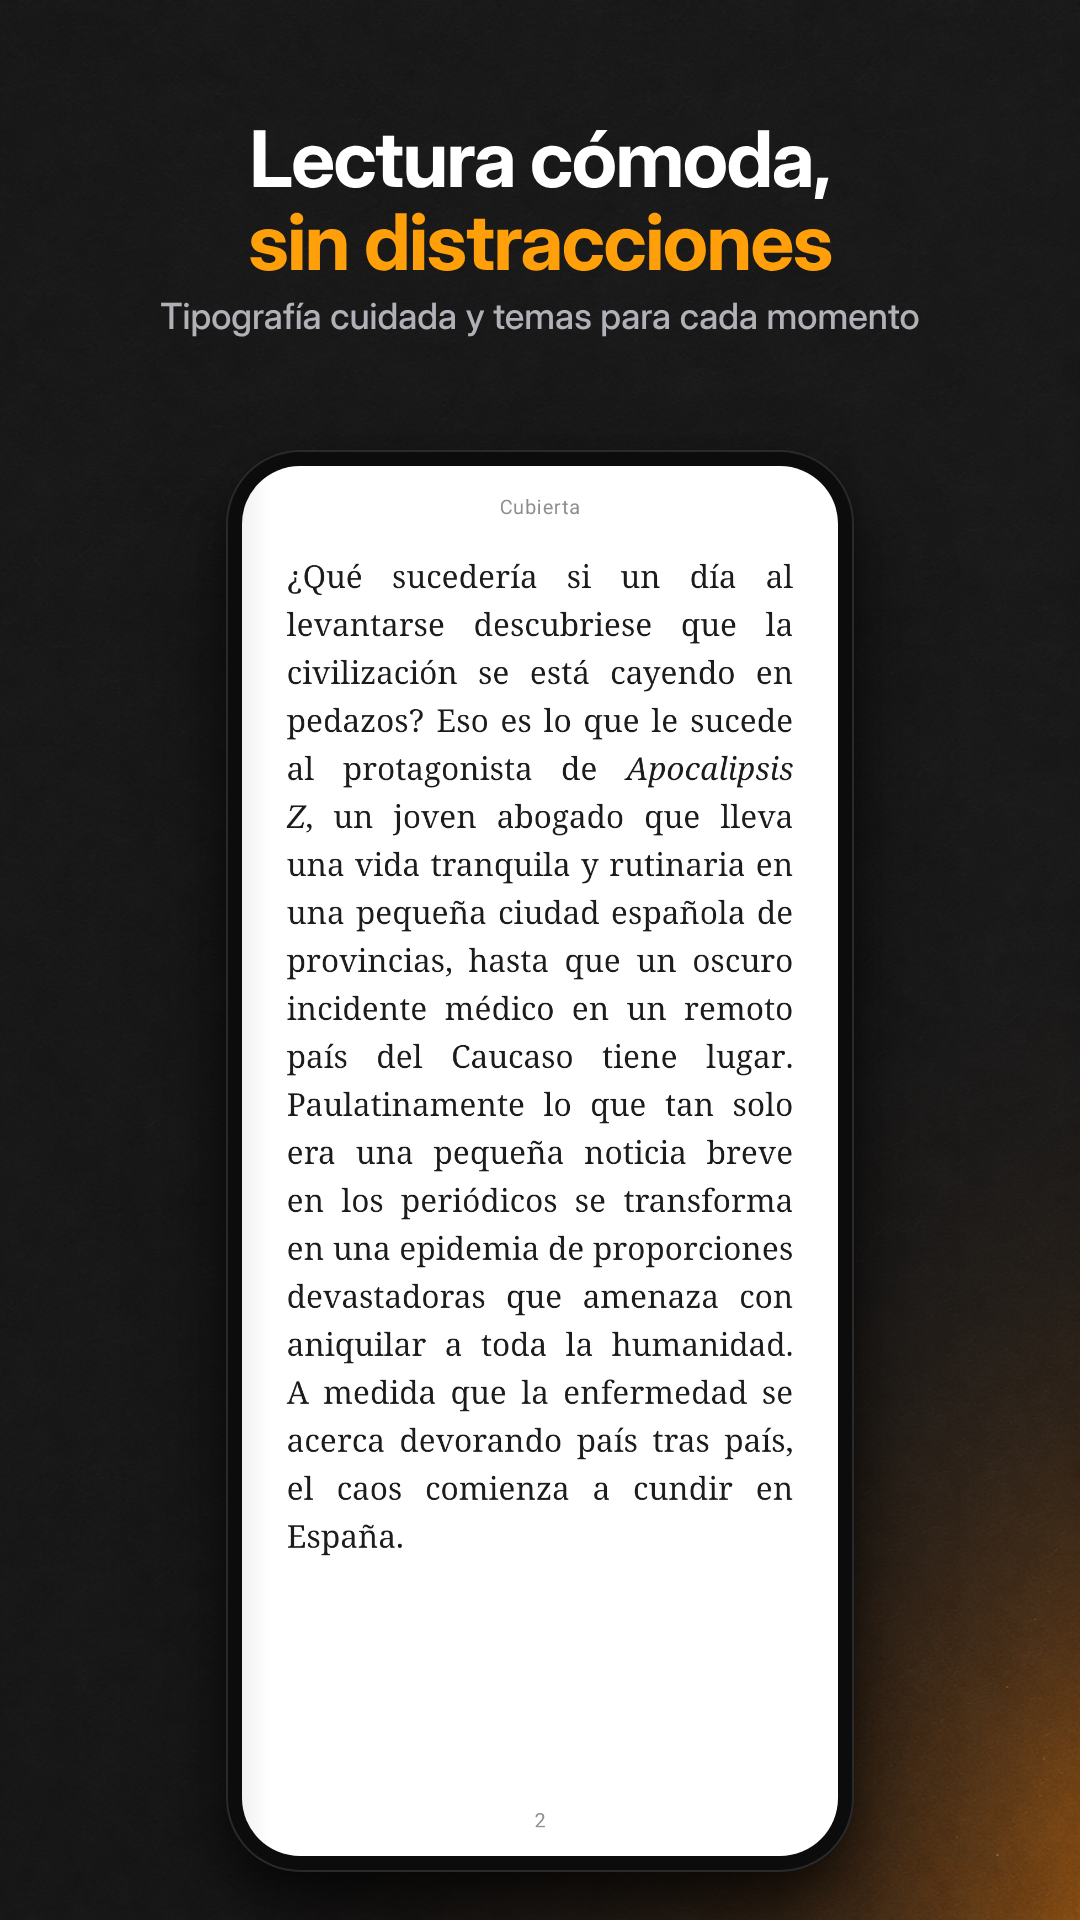
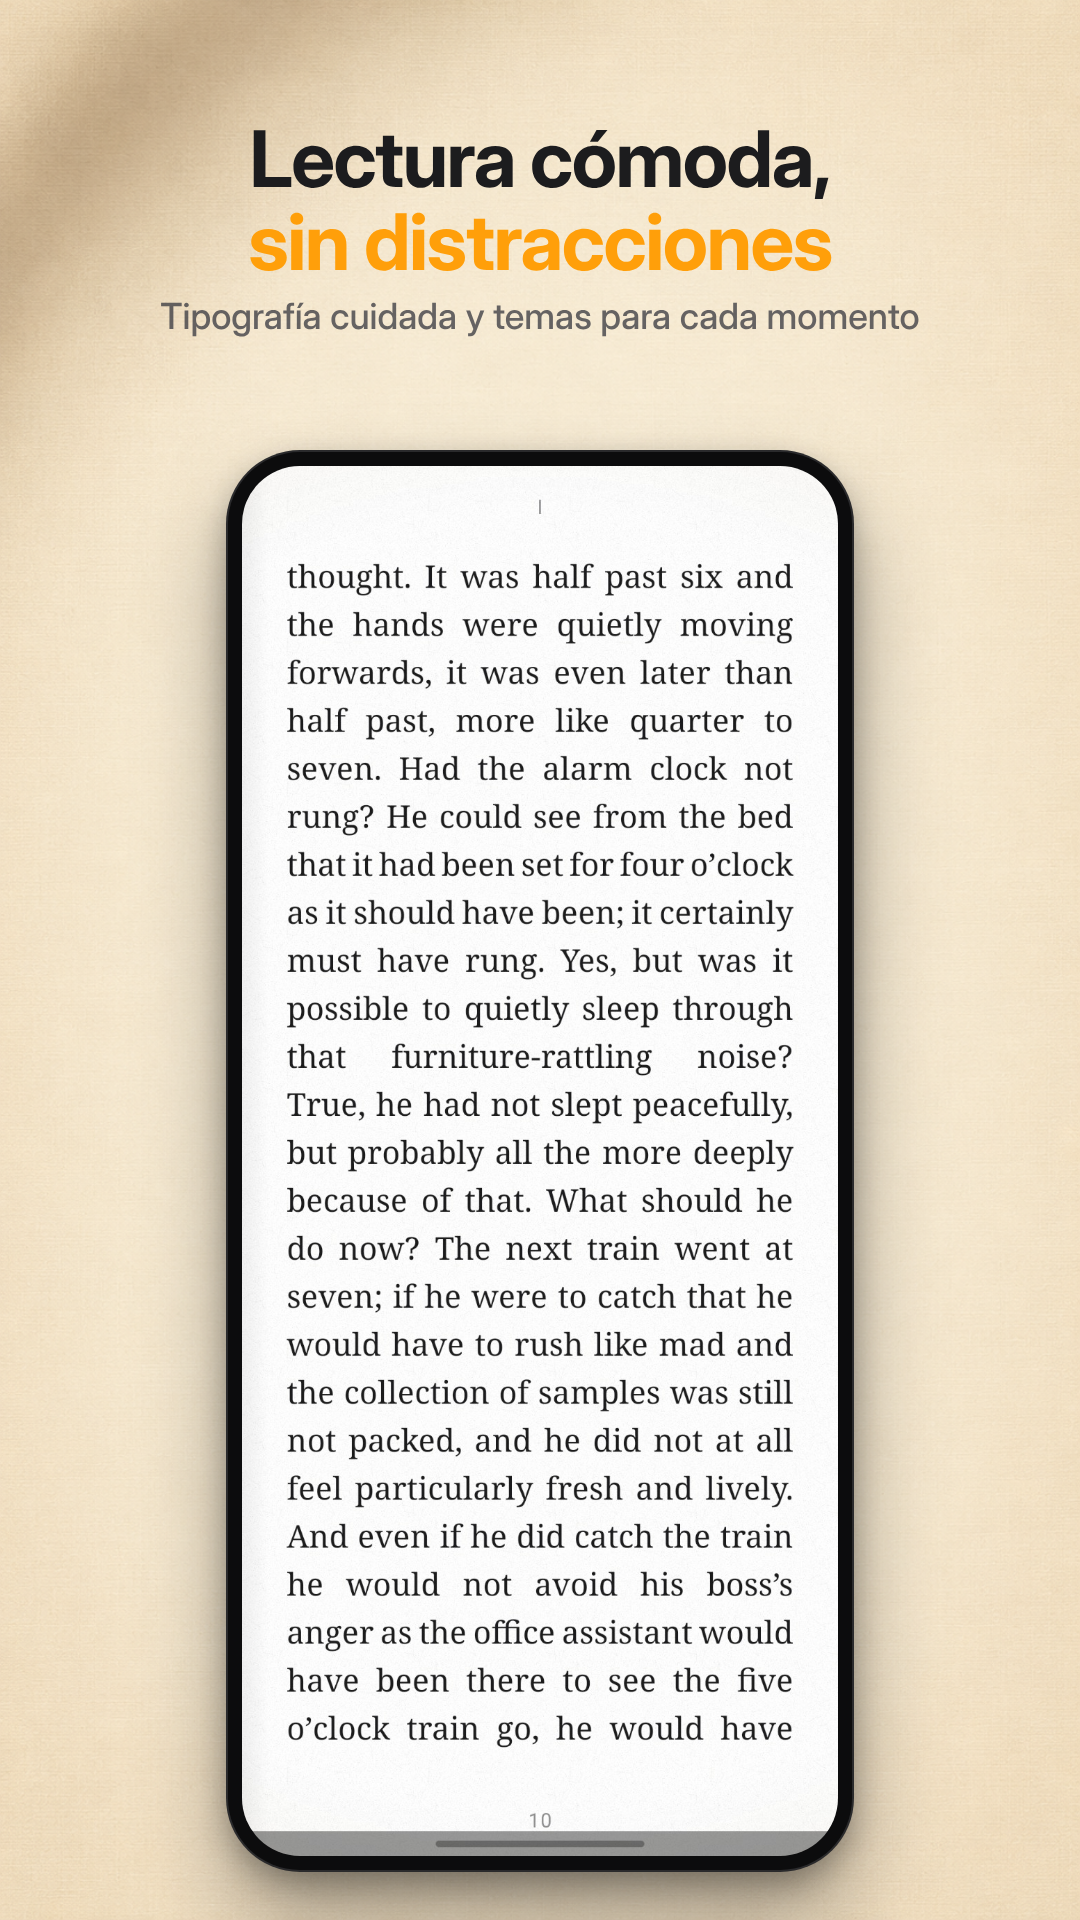
Ficha de Play: capturas de lectura y giro de página con dominio público
Claude-Session: https://claude.ai/code/session_01SQG9GJ1w4EiN8xEQsUU2nv

diff --git a/docs/play/tools/compose.js b/docs/play/tools/compose.js
@@ -58,10 +58,10 @@ function feature() {
 }
 
 const jobs = [
-  ['telefono-1.png', 1080, 1920, phone({ shot: 'p_curl.png', bg: 'bg_light.png', dark: false, title: 'Pasa página<br>como en <span class="acc">papel</span>', sub: 'Una animación realista que sigue tu dedo' })],
-  ['telefono-2.png', 1080, 1920, phone({ shot: 'p_highlight.png', bg: 'bg_dark.png', dark: true, title: 'Subraya, traduce<br>y <span class="acc">escucha</span>', sub: 'Cinco colores, notas y lectura en voz alta' })],
-  ['telefono-3.png', 1080, 1920, phone({ shot: 'p_stats.png', bg: 'bg_light.png', dark: false, title: 'Crea el hábito<br>de <span class="acc">leer</span>', sub: 'Metas diarias, rachas y tu reto del año' })],
-  ['telefono-4.png', 1080, 1920, phone({ shot: 'p_read.png', bg: 'bg_dark.png', dark: true, title: 'Lectura cómoda,<br><span class="acc">sin distracciones</span>', sub: 'Tipografía cuidada y temas para cada momento' })],
+  ['telefono-1.png', 1080, 1920, phone({ shot: 'p_curl.png', bg: 'bg_dark.png', dark: true, title: 'Pasa página<br>como en <span class="acc">papel</span>', sub: 'Una animación realista que sigue tu dedo' })],
+  ['telefono-2.png', 1080, 1920, phone({ shot: 'p_stats.png', bg: 'bg_light.png', dark: false, title: 'Crea el hábito<br>de <span class="acc">leer</span>', sub: 'Metas diarias, rachas y tu reto del año' })],
+  ['telefono-3.png', 1080, 1920, phone({ shot: 'p_highlight.png', bg: 'bg_dark.png', dark: true, title: 'Subraya, traduce<br>y <span class="acc">escucha</span>', sub: 'Cinco colores, notas y lectura en voz alta' })],
+  ['telefono-4.png', 1080, 1920, phone({ shot: 'p_read.png', bg: 'bg_light.png', dark: false, title: 'Lectura cómoda,<br><span class="acc">sin distracciones</span>', sub: 'Tipografía cuidada y temas para cada momento' })],
   ['tablet-1.png', 2560, 1440, tablet({ shot: 't_curl.png', title: 'Un libro abierto<br>en tus manos', sub: 'Doble página en tu plegable, con el giro de un libro de verdad' })],
   ['tablet-5.png', 2560, 1440, tablet({ shot: 't_library.png', title: 'Tu biblioteca,<br>a tu manera', sub: 'Estanterías, búsqueda y portadas para cada libro' })],
   ['tablet-6.png', 2560, 1440, tablet({ shot: 't_highlight.png', title: 'Subraya, traduce<br>y escucha', sub: 'Cinco colores, notas, traducción y lectura en voz alta' })],
